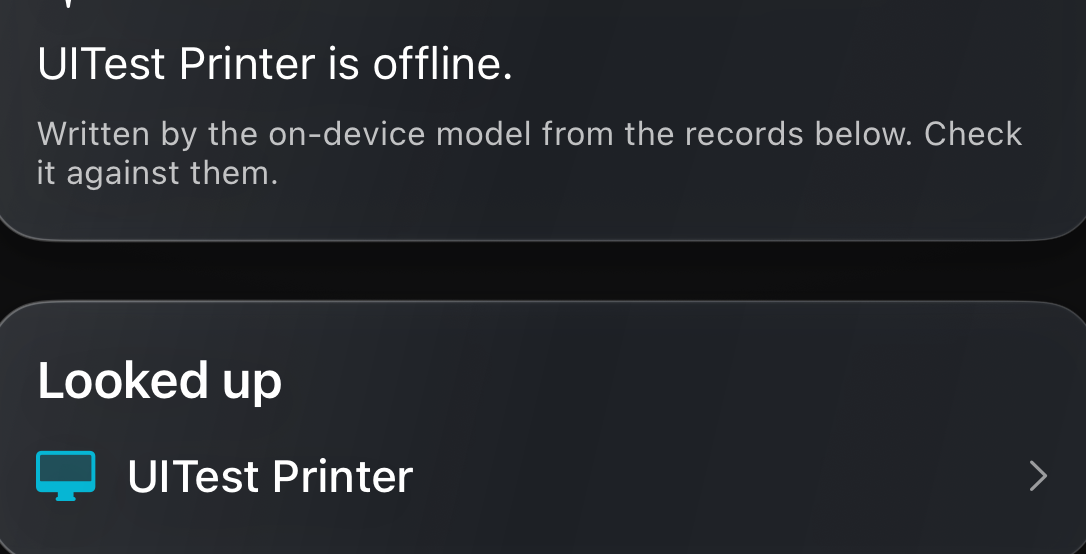
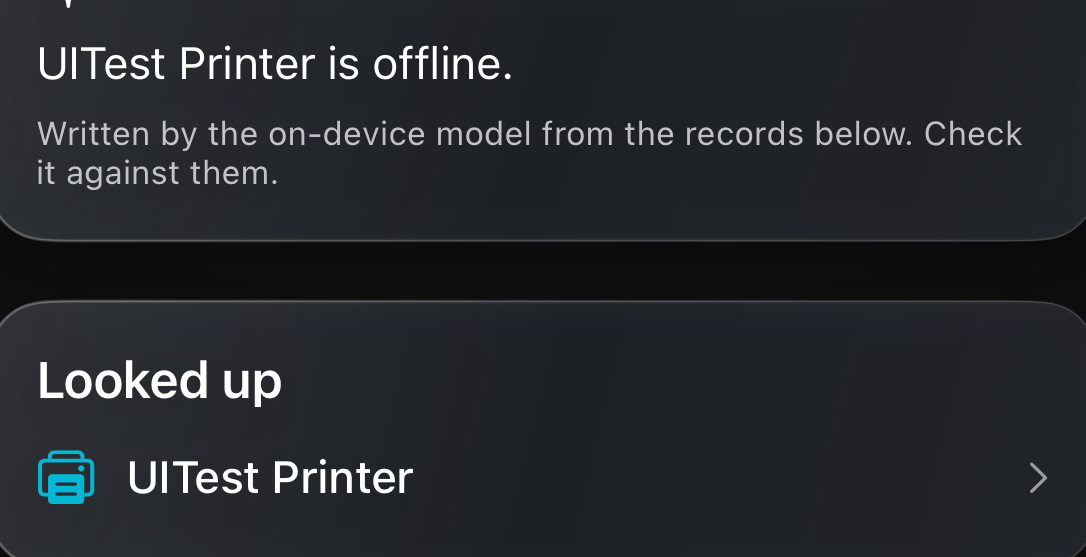
Evidence for #452: final-code screenshots, probe source, fan-out run

diff --git a/probe/main.swift b/probe/main.swift
@@ -1,0 +1,55 @@
+import Foundation
+import NetMonitorCore
+
+let calendar: Calendar = { var c = Calendar(identifier: .gregorian); c.timeZone = TimeZone(identifier: "UTC")!; return c }()
+func date(_ d: Int, _ h: Int = 12, _ m: Int = 0) -> Date { calendar.date(from: DateComponents(year: 2026, month: 11, day: d, hour: h, minute: m))! }
+let now = date(23)
+func dev(_ n: String, _ t: DeviceType, _ maker: String?, _ ip: String, _ s: DeviceStatus = .online, seen: Date = now, lat: Double?, hist: [Double]) -> AskDevice {
+  AskDevice(id: UUID(), displayName: n, deviceType: t, maker: maker, ipAddress: ip, status: s, lastSeen: seen, lastLatency: lat, latencyHistory: hist)
+}
+let printer = dev("Brother HL-L2350DW", .printer, "Brother", "192.168.1.57", .offline, seen: date(23, 9, 14), lat: 6, hist: [])
+let nas = dev("Synology DS920", .storage, "Synology", "192.168.1.20", lat: 2, hist: [1.7, 1.9, 1.6, 2.1])
+let bell = dev("Ring Doorbell", .camera, "Ring", "192.168.1.88", lat: 388, hist: [43, 512, 61, 388, 52])
+let nest = dev("Nest Thermostat", .iot, "Google", "192.168.1.73", lat: 25, hist: [24, 27, 297, 25])
+let tv = dev("Living Room Apple TV", .tv, "Apple", "192.168.1.41", lat: 3, hist: [3.2, 3.4, 3.1, 3.3])
+let mac = dev("Office MacBook", .laptop, "Apple", "192.168.1.102", seen: date(23, 11, 40), lat: 5, hist: [4.4, 4.9, 4.2, 4.6])
+let esp = dev("ESP_3F21A9", .unknown, "Espressif", "192.168.1.143", lat: 18, hist: [18, 19.5, 17.2, 18.8])
+let ipad = dev("Kitchen iPad", .tablet, "Apple", "192.168.1.119", lat: 9, hist: [9.3, 8.7, 11.2, 9.9])
+let devices = [printer, nas, bell, nest, tv, mac, esp, ipad]
+func ev(_ t: NetworkEventType, _ d: AskDevice, _ at: Date) -> NetworkEvent {
+  NetworkEvent(type: t, timestamp: at, title: "\(t.displayName): \(d.displayName)", deviceID: d.id)
+}
+let events = [ev(.deviceLeft, printer, date(23, 9, 14)), ev(.deviceLeft, bell, date(22, 18, 30)), ev(.deviceJoined, ipad, date(21, 15, 2)),
+              ev(.deviceLeft, nest, date(21, 6, 45)), ev(.deviceLeft, bell, date(20, 7)), ev(.deviceJoined, esp, date(19, 10, 5)),
+              ev(.deviceJoined, mac, date(14, 8))]
+let snapshot = AskSnapshot(devices: devices, events: events, now: now, calendar: calendar)
+
+/// Wraps the shipped model to print the toolbox record after each answer.
+struct Logging: AskModelProtocol {
+  var isAvailable: Bool { AskModel.shared.isAvailable }
+  func answer(_ q: String, instructions: String, toolbox: AskToolbox) async -> String? {
+    let text = await AskModel.shared.answer(q, instructions: instructions, toolbox: toolbox)
+    let r = toolbox.record
+    print("  calls: \(r.calls), outputs kept: \(r.outputs.count)")
+    for o in r.outputs { print("    > " + o.replacingOccurrences(of: "\n", with: "\n      ")) }
+    print("  raw answer: \(text ?? "<nil>")")
+    return text
+  }
+}
+
+let questions = CommandLine.arguments.count > 1 ? Array(CommandLine.arguments.dropFirst()) : [
+  "Is the printer up?", "What joined this week?", "Which devices have been flaky?", "How has the NAS latency been today?",
+  "the printer won't print", "Why is the internet slow tonight?",
+  "Is the Ring Doorbell online?", "When was the Office MacBook last seen?", "Did anything go offline yesterday?",
+  "Which devices are offline right now?", "How many devices are saved?",
+]
+print("available: \(AskModel.shared.isAvailable)")
+_ = await AskNetwork.answer("Hello", snapshot: snapshot, pinnedDeviceID: nil, model: AskModel.shared) // warm-up
+for q in questions {
+  let t0 = Date()
+  print("\n=== \(q)")
+  let a = await AskNetwork.answer(q, snapshot: snapshot, pinnedDeviceID: nil, model: Logging())
+  print(String(format: "  %.2f s", Date().timeIntervalSince(t0)))
+  print("  SHOWN: \(a.shownText)  [grounded: \(a.text != nil)]")
+  print("  cites devices: \(a.devices.map(\.name)) events: \(a.events.map(\.title))")
+}

diff --git a/probe/Package.swift b/probe/Package.swift
@@ -1,0 +1,9 @@
+// swift-tools-version: 5.10
+// Throwaway real-model probe for #452; not shipped.
+import PackageDescription
+let package = Package(
+  name: "Probe452",
+  platforms: [.macOS("15.0")],
+  dependencies: [.package(path: "/Users/blake/Projects/NetMonitor-2.0-452/Packages/NetMonitorCore")],
+  targets: [.executableTarget(name: "Probe", dependencies: [.product(name: "NetMonitorCore", package: "NetMonitorCore")], path: "Sources/Probe")]
+)
